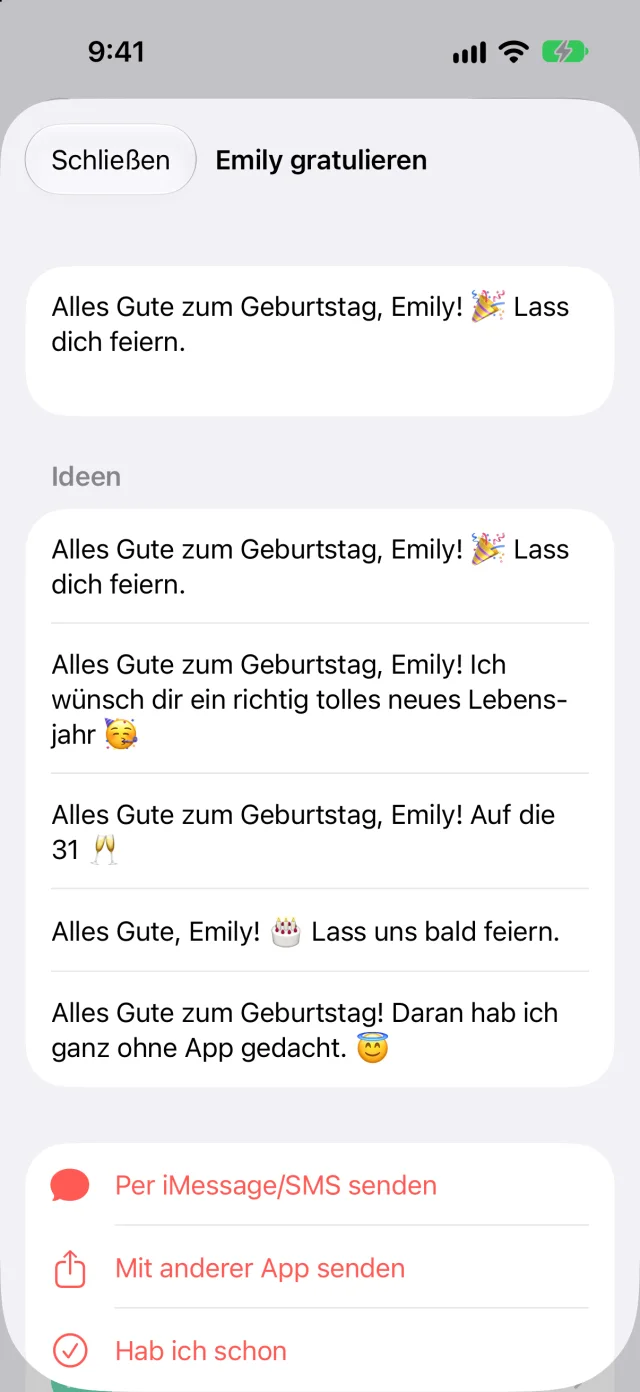
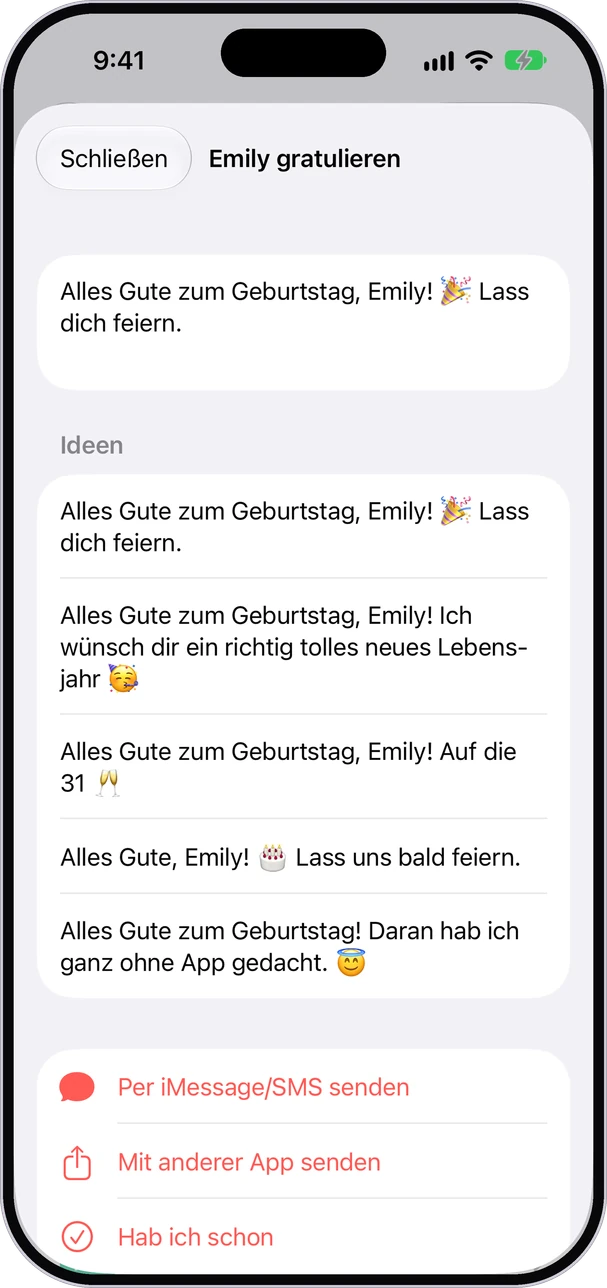
Phone mockups: framed with the store renderer (framed_phone), transparent WebP at 2x; drop the CSS bezels
Home and compose, EN and DE, light and dark, from full uncropped iPhone 17
captures (same aspect as the 6.9 inch store captures). Same scale for both
phones, drop-shadow in CSS, <picture> still switches light and dark.

diff --git a/style.css b/style.css
@@ -119,13 +119,13 @@ html[lang=de] .hero h1{max-width:12ch;font-size:clamp(2.45rem,5.6vw,4.7rem)}
 .axis{display:flex;justify-content:space-between;margin-left:calc(9.5rem + 20px);font-size:.82rem;color:var(--muted);font-variant-numeric:tabular-nums}
 @media (max-width:599px){.lv{grid-template-columns:1fr;gap:8px}.axis{margin-left:0}}
 
-/* Phones */
-.phones{display:flex;gap:clamp(14px,3vw,32px);align-items:flex-start;max-width:640px}
+/* Phones: framed with the app's store renderer (transparent WebP, drawn at 2x), so the page only places them */
+.phones{display:flex;gap:clamp(8px,2vw,24px);align-items:flex-start;max-width:700px}
 .phones .phone{flex:1 1 0;min-width:0}
 .phones .phone+.phone{margin-top:clamp(36px,8vw,88px)}
-.phone{position:relative;margin:0;padding:3.6%;border-radius:15.5%/7%;background:#0D0C10;box-shadow:0 0 0 1.5px rgba(255,255,255,.14) inset,0 0 0 1px rgba(0,0,0,.4),0 34px 60px -30px rgba(23,21,26,.65)}
-.phone img{display:block;width:100%;border-radius:14%/6.4%}
-.phone::before{content:"";position:absolute;z-index:1;top:2.2%;left:50%;width:30%;height:3.3%;transform:translateX(-50%);background:#000;border-radius:99px}
+.phone{display:block}
+.phone img{display:block;width:100%;height:auto;filter:drop-shadow(0 26px 28px rgba(23,21,26,.26))}
+@media (prefers-color-scheme:dark){.phone img{filter:drop-shadow(0 26px 28px rgba(0,0,0,.5))}}
 
 /* iOS-style action list, with the app's real action titles */
 .actions{list-style:none;margin:28px 0 0;padding:0;max-width:340px;background:var(--surface);border-radius:20px;overflow:hidden;box-shadow:0 0 0 1px var(--line)}

diff --git a/de/index.html b/de/index.html
@@ -91,8 +91,8 @@
         <p class="after">Glückwünsche per iMessage, SMS, WhatsApp oder über jede andere App.</p>
       </div>
       <div class="phones">
-        <figure class="phone"><picture><source media="(prefers-color-scheme: dark)" srcset="../img/home-de-dark.webp"><img src="../img/home-de-light.webp" alt="Die Startseite der App: ein Geburtstag heute mit den Knöpfen Schreiben und Erledigt, darunter die nächsten Geburtstage." width="640" height="1392" loading="lazy"></picture></figure>
-        <figure class="phone"><picture><source media="(prefers-color-scheme: dark)" srcset="../img/compose-de-dark.webp"><img src="../img/compose-de-light.webp" alt="Die Glückwunsch-Ansicht: fertige Geburtstagsnachrichten, darunter Per iMessage/SMS senden und Mit anderer App senden." width="640" height="1392" loading="lazy"></picture></figure>
+        <picture class="phone"><source media="(prefers-color-scheme: dark)" srcset="../img/home-de-dark.webp"><img src="../img/home-de-light.webp" alt="Die Startseite der App: ein Geburtstag heute mit den Knöpfen Schreiben und Erledigt, darunter die nächsten Geburtstage." width="607" height="1288" loading="lazy"></picture>
+        <picture class="phone"><source media="(prefers-color-scheme: dark)" srcset="../img/compose-de-dark.webp"><img src="../img/compose-de-light.webp" alt="Die Glückwunsch-Ansicht: fertige Geburtstagsnachrichten, darunter Per iMessage/SMS senden und Mit anderer App senden." width="607" height="1288" loading="lazy"></picture>
       </div>
     </div>
   </section>

diff --git a/index.html b/index.html
@@ -91,8 +91,8 @@
         <p class="after">Wishes for Messages, WhatsApp or any app you share to.</p>
       </div>
       <div class="phones">
-        <figure class="phone"><picture><source media="(prefers-color-scheme: dark)" srcset="img/home-en-dark.webp"><img src="img/home-en-light.webp" alt="The app’s home screen: a birthday today with Text and Done buttons, upcoming birthdays below." width="640" height="1392" loading="lazy"></picture></figure>
-        <figure class="phone"><picture><source media="(prefers-color-scheme: dark)" srcset="img/compose-en-dark.webp"><img src="img/compose-en-light.webp" alt="The wish screen: ready-made birthday messages, with Send with Messages and Send with another app." width="640" height="1392" loading="lazy"></picture></figure>
+        <picture class="phone"><source media="(prefers-color-scheme: dark)" srcset="img/home-en-dark.webp"><img src="img/home-en-light.webp" alt="The app’s home screen: a birthday today with Text and Done buttons, upcoming birthdays below." width="607" height="1288" loading="lazy"></picture>
+        <picture class="phone"><source media="(prefers-color-scheme: dark)" srcset="img/compose-en-dark.webp"><img src="img/compose-en-light.webp" alt="The wish screen: ready-made birthday messages, with Send with Messages and Send with another app." width="607" height="1288" loading="lazy"></picture>
       </div>
     </div>
   </section>
